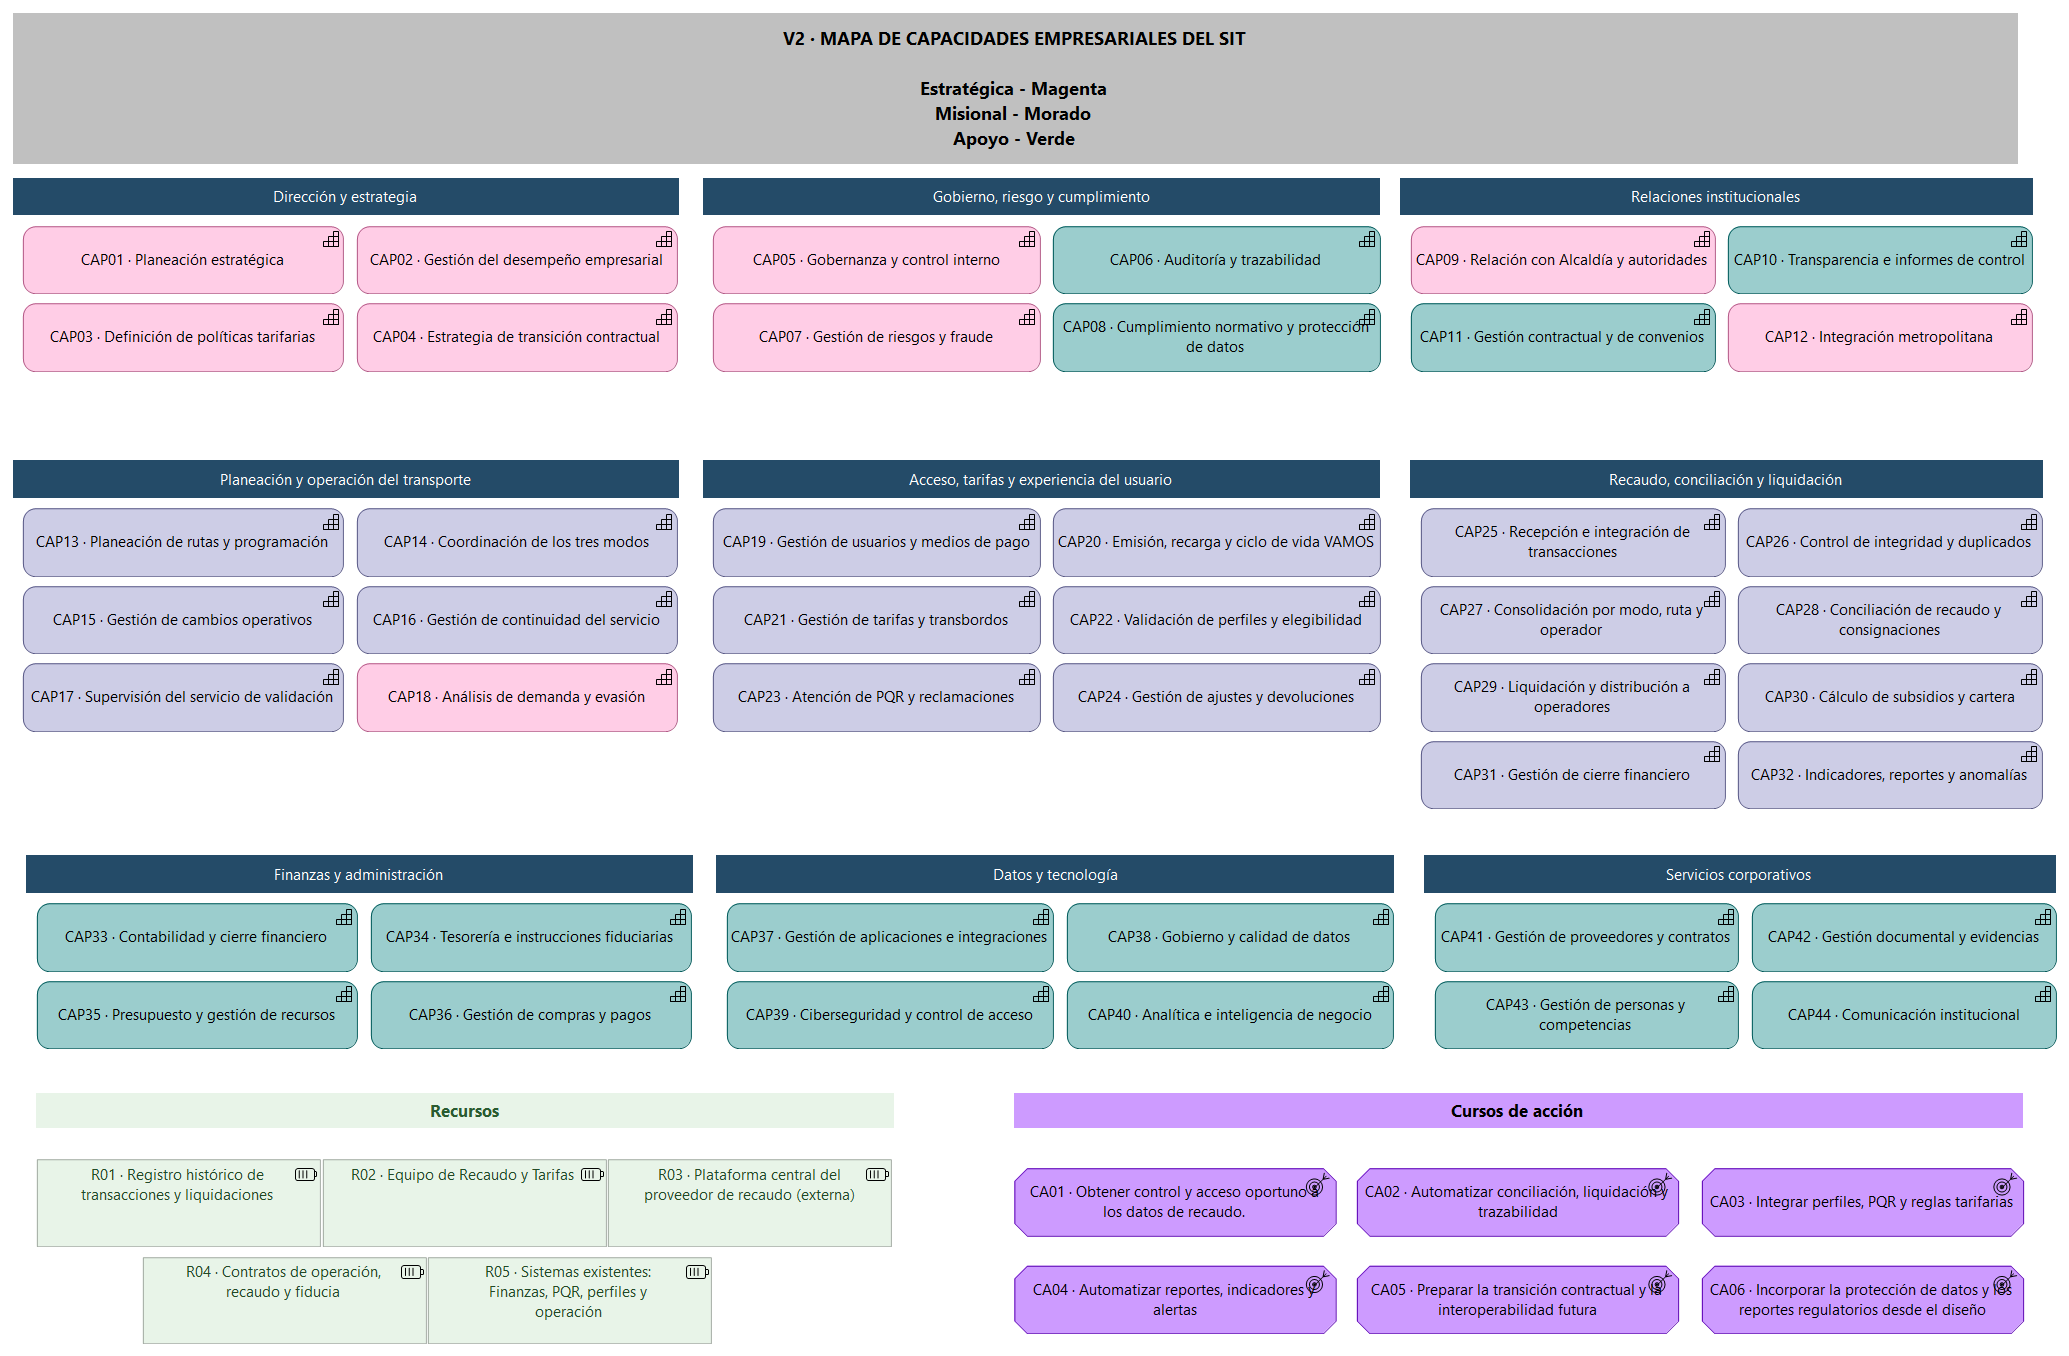
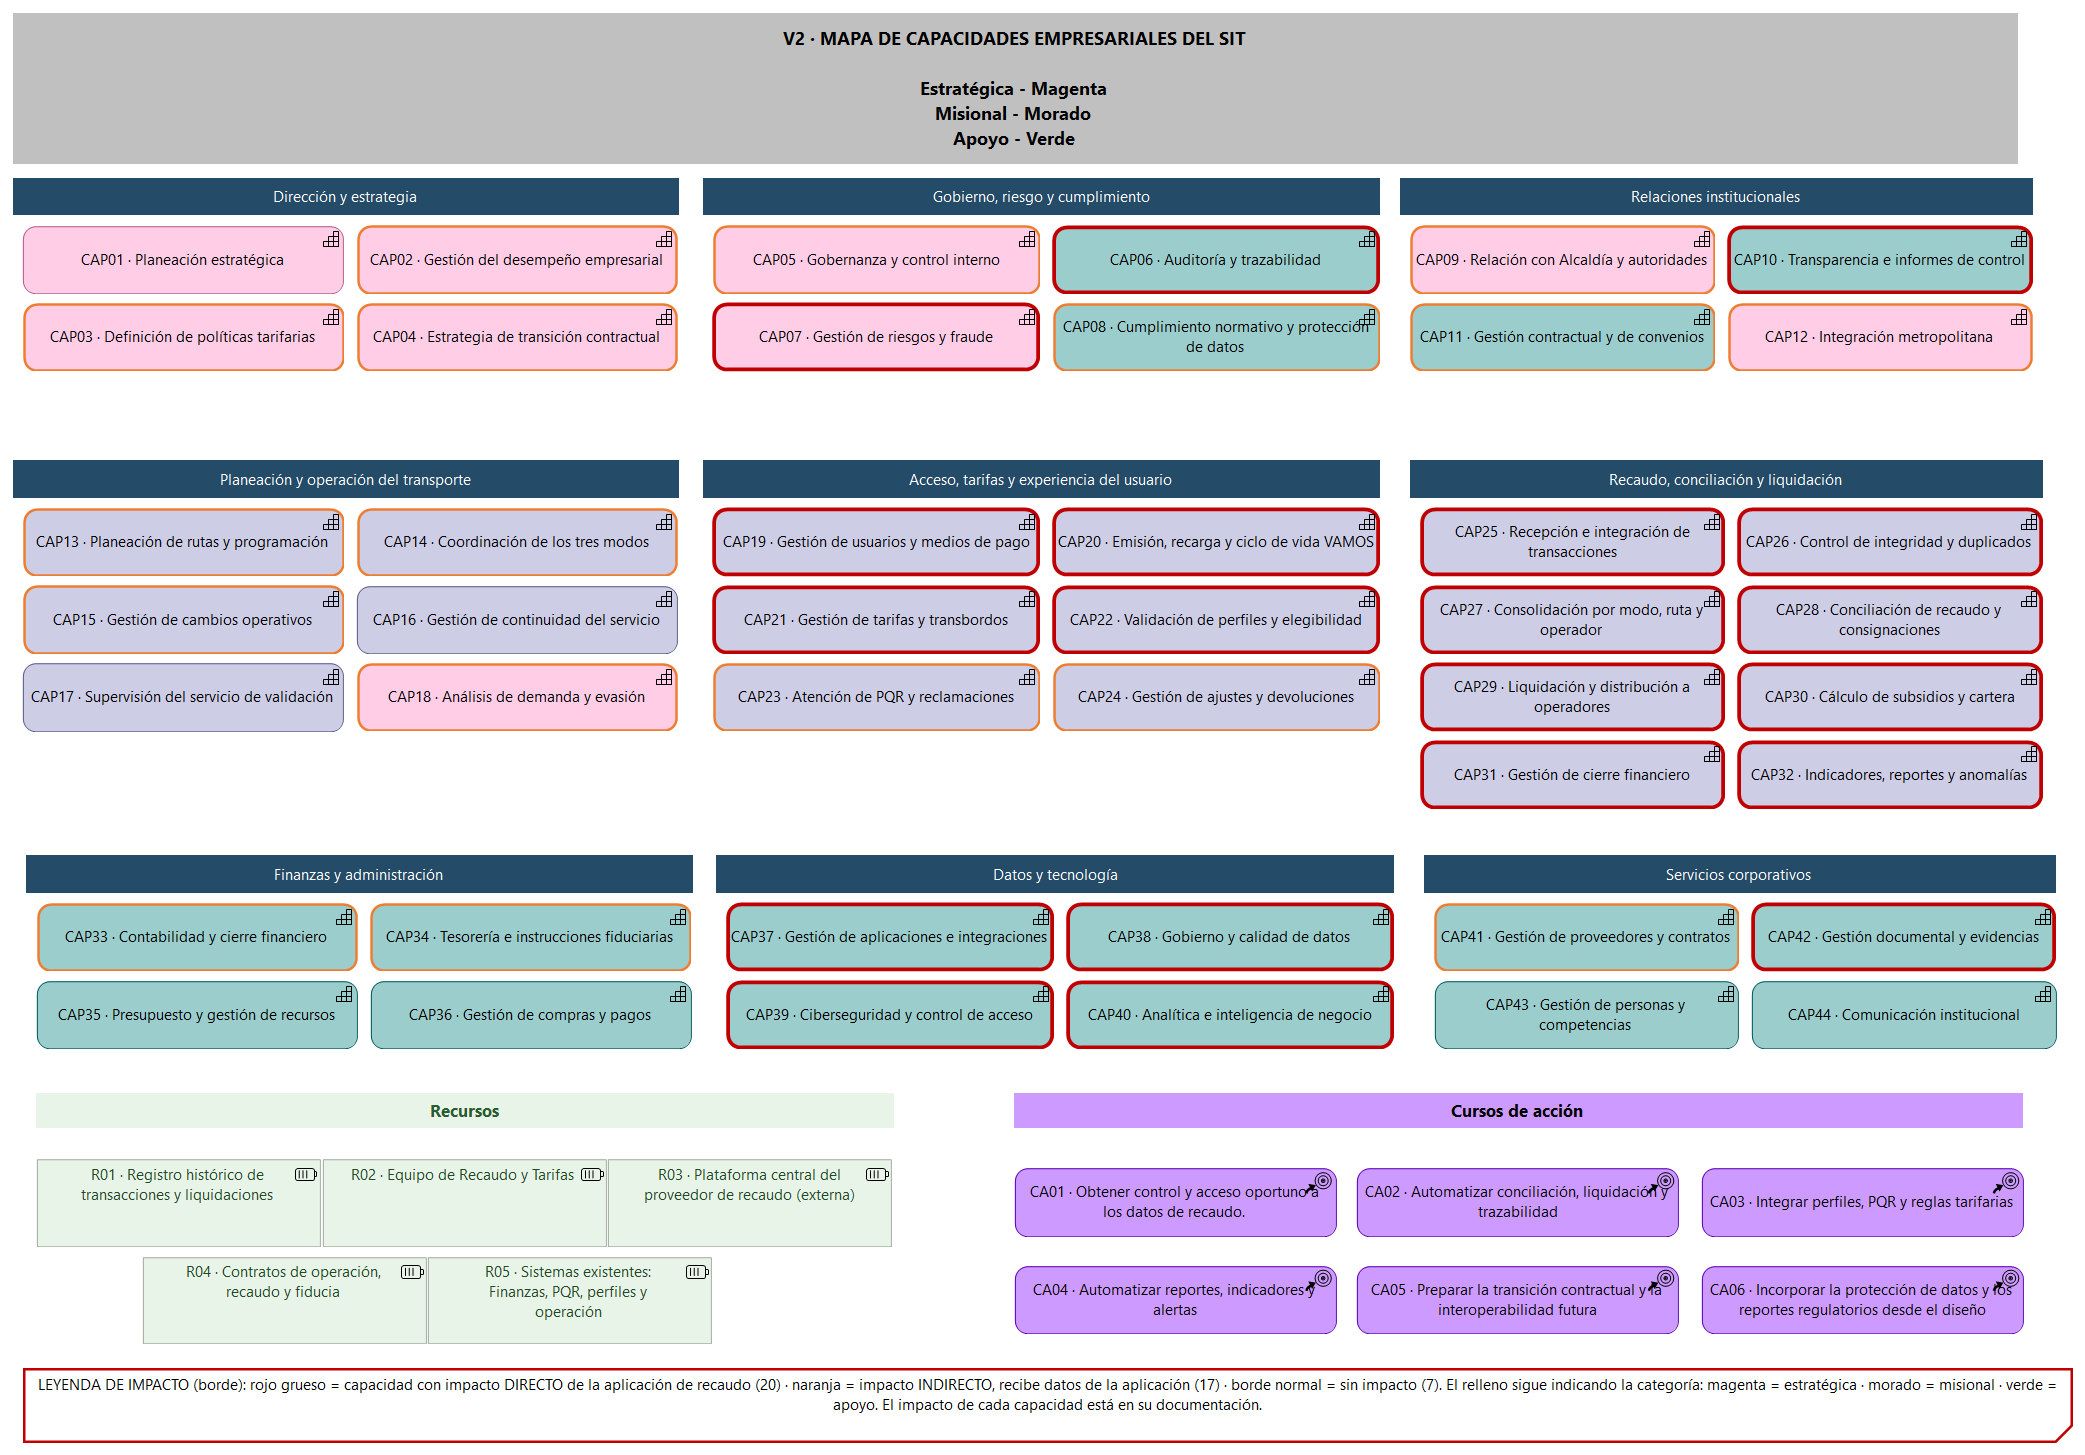
T34: V10 trazabilidad vertical y relaciones meta-capacidad-servicio-contexto; V2 resalta capacidades impactadas con leyenda; tomo T35

diff --git a/README.md b/README.md
@@ -210,7 +210,7 @@ La meta prioritaria expresada por la experta es que el ente gestor pueda demostr
 
 **Análisis.** El mapa cubre a todo el ente gestor y no solo al recaudo, como pide la diapositiva 35 de 7_SOA. Tiene 44 capacidades repartidas en 9 grupos, y los colores separan las tres categorías que usó la experta al hablar de las funciones del ente: estratégicas (magenta), misionales (morado) y de apoyo (verde). Las estratégicas son Dirección y estrategia, Gobierno, riesgo y cumplimiento, y Relaciones institucionales. Las misionales son Planeación y operación del transporte, Acceso, tarifas y experiencia del usuario, y Recaudo, conciliación y liquidación. Las de apoyo son Finanzas y administración, Datos y tecnología, y Servicios corporativos. Al lado van 5 recursos (el registro histórico de transacciones y liquidaciones, el equipo de Recaudo y Tarifas, la plataforma central del proveedor, los contratos de operación, recaudo y fiducia, y los sistemas existentes) y 6 cursos de acción que se conectan con las metas de V1.
 
-**Capacidades impactadas.** Cada capacidad trae en su documentación el impacto que le asignamos. De las 44, 20 tienen impacto directo, 17 indirecto y 7 ninguno. Las directas son las que la aplicación ejecuta o automatiza: gestión de usuarios y medios de pago (CAP19), emisión, recarga y ciclo de vida de VAMOS (CAP20), tarifas y transbordos (CAP21), perfiles y elegibilidad (CAP22), toda la cadena desde la recepción de transacciones (CAP25) hasta la liquidación (CAP29), los subsidios (CAP30) y los indicadores (CAP32), además de varias de gobierno y de datos como auditoría y trazabilidad (CAP06), riesgos y fraude (CAP07) y ciberseguridad (CAP39). Las indirectas son las que mejoran porque reciben datos de la aplicación pero no la usan para ejecutarse, por ejemplo la atención de PQR (CAP23), la contabilidad (CAP33) y la tesorería (CAP34). Las que quedan sin impacto, como la supervisión del servicio de validación (CAP17), la gestión de compras y pagos (CAP36) o la comunicación institucional (CAP44), están cerca del recaudo pero fuera de lo que cubre el software.
+**Capacidades impactadas.** En la vista se resaltan con el borde: rojo grueso para impacto directo y naranja para indirecto, con su leyenda al pie (el relleno sigue indicando la categoría). Cada capacidad trae además en su documentación el impacto que le asignamos. De las 44, 20 tienen impacto directo, 17 indirecto y 7 ninguno. Las directas son las que la aplicación ejecuta o automatiza: gestión de usuarios y medios de pago (CAP19), emisión, recarga y ciclo de vida de VAMOS (CAP20), tarifas y transbordos (CAP21), perfiles y elegibilidad (CAP22), toda la cadena desde la recepción de transacciones (CAP25) hasta la liquidación (CAP29), los subsidios (CAP30) y los indicadores (CAP32), además de varias de gobierno y de datos como auditoría y trazabilidad (CAP06), riesgos y fraude (CAP07) y ciberseguridad (CAP39). Las indirectas son las que mejoran porque reciben datos de la aplicación pero no la usan para ejecutarse, por ejemplo la atención de PQR (CAP23), la contabilidad (CAP33) y la tesorería (CAP34). Las que quedan sin impacto, como la supervisión del servicio de validación (CAP17), la gestión de compras y pagos (CAP36) o la comunicación institucional (CAP44), están cerca del recaudo pero fuera de lo que cubre el software.
 
 **Decisiones.** Una capacidad dice qué sabe hacer el ente, no qué área lo hace; por eso la personalización de tarjetas, aunque la ejecuta Servicio al Cliente, cuenta como parte del recaudo. La planeación de rutas queda con impacto indirecto: el software solo consume su catálogo de rutas para aplicar transbordos y liquidar, no diseña rutas. La operación de validadores y dispositivos es IoT y está fuera del alcance, así que ninguna capacidad la hace directa. El recurso de la plataforma del proveedor se marca como externo para no asumir que el ente la poseerá ni que se reemplazará antes de que venza el contrato.
 
@@ -976,6 +976,30 @@ Además, es el contexto que más conversa con los otros: consulta el tarifario (
 ## 9. Decisiones y supuestos
 ### V10 Trazabilidad vertical
 ![V10 Trazabilidad vertical](vistas/V10_trazabilidad.png)
+
+**Análisis.** La vista muestra tres cadenas completas, de un problema detectado en la entrevista hasta el componente de aplicación que lo resuelve. Se lee de abajo hacia arriba, siempre por realización:
+1. La «Aplicación de recaudo SIT» se compone de contextos (V8).
+2. Cada contexto realiza su servicio de negocio de plataforma (V4).
+3. El servicio realiza capacidades (V2).
+4. Las capacidades realizan un curso de acción.
+5. El curso de acción realiza la meta (V1), en la que influye una evaluación.
+
+Las tres cadenas son:
+- **Cadena 1 · MET01, control de la información.** La dependencia del proveedor (EVA01) motiva la meta. La realiza CA01 con la recepción de transacciones (CAP25) y el control de integridad y duplicados (CAP26). Detrás está el servicio de procesamiento de transacciones (P5) y el contexto BC05, que ejecuta *ProcesarRegistroValidación*.
+- **Cadena 2 · MET02, liquidación y conciliación confiables.** Es la meta que la experta marcó como prioritaria. Las diferencias de conciliación (EVA04) la motivan. CA02 la realiza con CAP28 y CAP29, que salen de los servicios de conciliación (P7) y liquidación (P8). Los contextos BC07 y BC08 se comunican por la API abierta de resultados conciliados (OHS + PL), y P8 le sirve a los operadores.
+- **Cadena 3 · MET04, reducción de pérdidas.** La fuga de subsidios (EVA07) la motiva. CA03 la realiza con la validación de perfiles y elegibilidad (CAP22), el servicio de usuarios y perfiles (P3) y el contexto BC03, que ejecuta *AsignarPerfilTarifario*.
+
+Las cuatro relaciones que pide el enunciado están en la vista: realización (en toda la cadena), influencia (evaluación → meta), servicio (P8 → operadores y el servicio de aplicación → BC08) y asignación (contexto → comando).
+
+**Decisiones.**
+- Las capacidades de V2 no tenían relaciones en el modelo, así que al hacer V10 se completó la trazabilidad de **todo** el modelo, no solo de las tres cadenas dibujadas:
+  - los 10 servicios de plataforma realizan las capacidades que les asigna la tabla de descomposición (§4), 23 relaciones;
+  - las capacidades impactadas realizan los 6 cursos de acción, 18 relaciones;
+  - los cursos de acción realizan las metas, 10 relaciones;
+  - cada contexto realiza su servicio de plataforma, 10 relaciones.
+
+  Así, cualquier contexto de V8 se puede seguir hasta una meta.
+- Los cursos de acción CA01 a CA06 de V2 estaban modelados como *resultado* (Outcome). Se cambiaron a *curso de acción*, que es el tipo que pide V2; no tenían relaciones, así que el cambio no afectó otras vistas.
 
 **Decisiones de diseño:** _…_
 **Supuestos:** _…_

diff --git a/BACKLOG.md b/BACKLOG.md
@@ -1,6 +1,6 @@
 # BACKLOG: Parcial 3, recaudo del sistema integrado de transporte
 
-> **Turno de modelo (archivo .archimate):** Santiago Jaramillo (T34)  ← escribe tu nombre aquí antes de abrir Archi y vuelve a dejarlo en _libre_ al terminar (ver [CLAUDE.md §7](CLAUDE.md#7-cómo-trabajamos-sin-responsables-fijos)).
+> **Turno de modelo (archivo .archimate):** Santiago Jaramillo (T35)  ← escribe tu nombre aquí antes de abrir Archi y vuelve a dejarlo en _libre_ al terminar (ver [CLAUDE.md §7](CLAUDE.md#7-cómo-trabajamos-sin-responsables-fijos)).
 
 ## Cómo usar este backlog
 - Las tareas están **en orden**. Toma la **primera tarea libre** (`[ ]`) cuyas dependencias estén en `[x]`.
@@ -79,8 +79,8 @@
 |---|---|---|---|---|---|---|
 | T32 | [x] Santiago Jaramillo 📝 | **Investigar** cómo representar el Bounded Context Canvas (ddd-crew) en Archi (agrupaciones como celdas, notas, elementos de motivación o aplicación) y **justificar** la elección | — | README §8 (justificación) | Hay una decisión de modelado escrita | 1 |
 | T33 | [x] Santiago Jaramillo 🧩 | **V11 Bounded Context Canvas** del contexto **central**, en una sola página: propósito, clasificación estratégica, rol del dominio, lenguaje ubicuo, comunicación entrante y saliente, decisiones de negocio y supuestos | T32, T28, T30 | `vistas/V11_bounded_context_canvas.png` | Cabe en una página y es coherente con V5, V6, V7 y V8 | 2,5 |
-| T34 | [~] Santiago Jaramillo 🧩 | **V10 Trazabilidad vertical**: meta (V1) → capacidad (V2) → servicio de negocio (V4) → servicio o componente de aplicación (V8), con realización, influencia, servicio y asignación | T31 | `vistas/V10_trazabilidad.png` | Al menos 2 cadenas completas se pueden seguir de punta a punta | 1,5 |
-| T35 | [ ] 🧩 | **Revisión de calidad del modelo**: notación correcta, relaciones válidas (Archi valida), sin elementos huérfanos y nombres según el glosario | T33, T34 | Modelo final | Pasa *Validate Model* en Archi sin errores | 1 |
+| T34 | [x] Santiago Jaramillo 🧩 | **V10 Trazabilidad vertical**: meta (V1) → capacidad (V2) → servicio de negocio (V4) → servicio o componente de aplicación (V8), con realización, influencia, servicio y asignación | T31 | `vistas/V10_trazabilidad.png` | Al menos 2 cadenas completas se pueden seguir de punta a punta | 1,5 |
+| T35 | [~] Santiago Jaramillo 🧩 | **Revisión de calidad del modelo**: notación correcta, relaciones válidas (Archi valida), sin elementos huérfanos y nombres según el glosario | T33, T34 | Modelo final | Pasa *Validate Model* en Archi sin errores | 1 |
 | T36 | [ ] 📝 | Exportar **todas** las vistas en PNG a `/vistas` y verificar que se vean en el README | T35 | `/vistas/*.png` | Las 11 vistas o más se ven en GitHub | 0,5 |
 | T37 | [ ] 📝 | README §6, §7 y §8 con el análisis de cada vista, y **§9 Decisiones y supuestos** | T29, T31, T33 | README.md | Ninguna vista queda sin análisis | 2 |
 | T38 | [ ] 📝 | **Índice navegable** con enlaces internos a cada fase y cada vista (probarlos en GitHub) | T37 | README.md | Todos los enlaces funcionan | 0,5 |

diff --git a/modelo/DECISIONES_MODELO.md b/modelo/DECISIONES_MODELO.md
@@ -180,3 +180,20 @@ Registro de las decisiones tomadas al construir `modelo/recaudo.archimate`. Hay 
 - El contexto aparece dos veces: en «Nombre» y en el centro, donde contiene (anidados) sus comandos y su servicio para que las relaciones de comunicación entren y salgan de él.
 - Viewpoint **None** (mezcla motivación, negocio y aplicación).
 - Si se reorganiza, mantener la distribución de ddd-crew: identidad a la izquierda, comunicación en el centro, lenguaje y decisiones a la derecha, y supuestos, métricas y preguntas abajo.
+
+## 11. V10 Trazabilidad vertical (T34)
+
+**Corrección en V2:** CA01–CA06 pasaron de *Outcome* a *CourseOfAction* y a la carpeta Strategy. No tenían relaciones.
+
+**Relaciones nuevas (61), todas de realización:**
+
+| Desde | Hacia | Cuántas | Fuente |
+|---|---|---|---|
+| Servicio de plataforma (SN-P1…P10) | Capacidad | 23 | Columna «Capacidad en V2» de la tabla de descomposición (README §4) |
+| Capacidad | Curso de acción | 18 | CA01 ← CAP25, 26 · CA02 ← CAP27, 28, 29, 30, 34 · CA03 ← CAP19, 20, 21, 22, 24 · CA04 ← CAP07, 32, 40 · CA05 ← CAP37 · CA06 ← CAP08, 10 |
+| Curso de acción | Meta | 10 | CA01 → MET01, MET06 · CA02 → MET02 · CA03 → MET03, MET04 · CA04 → MET04, MET05 · CA05 → MET06, MET07 · CA06 → MET05 |
+| Contexto (BC01…BC10) | Servicio de plataforma (P1…P10) | 10 | Correspondencia DOMxx ↔ Px de V5 |
+
+**Vista:** tres cadenas (MET01 por BC05, MET02 por BC07 y BC08, MET04 por BC03) en franjas por capa: motivación, estrategia, negocio y aplicación. Las franjas son *Group* visuales. Viewpoint None.
+
+**Resaltado de impacto en V2 (rúbrica):** las capacidades con impacto directo llevan borde rojo `#C00000` de grosor 3 y las de impacto indirecto borde naranja `#ED7D31` de grosor 2 (con `deriveElementLineColor = false` para que Archi no derive el borde del relleno). Las que no tienen impacto conservan su borde. El relleno sigue siendo por categoría. Leyenda al pie de la vista.
